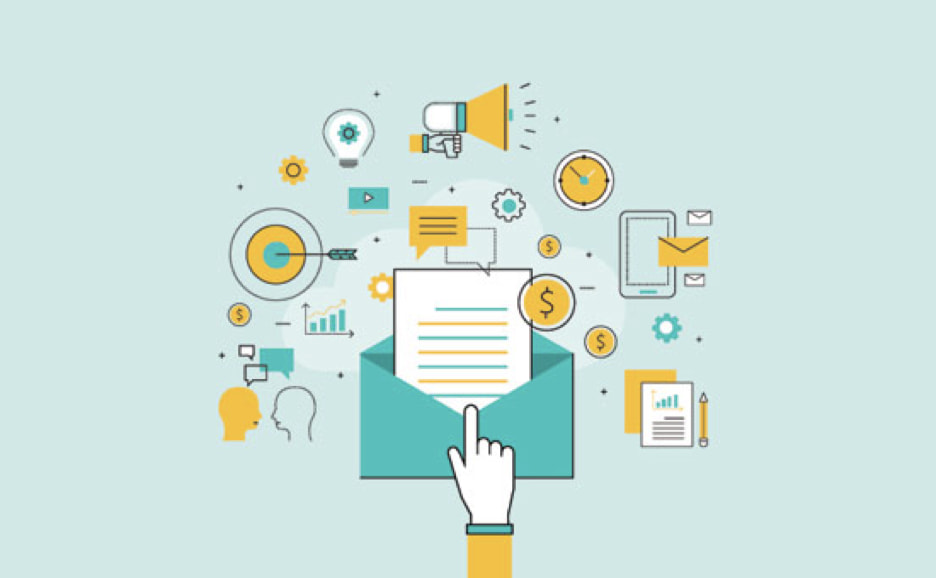
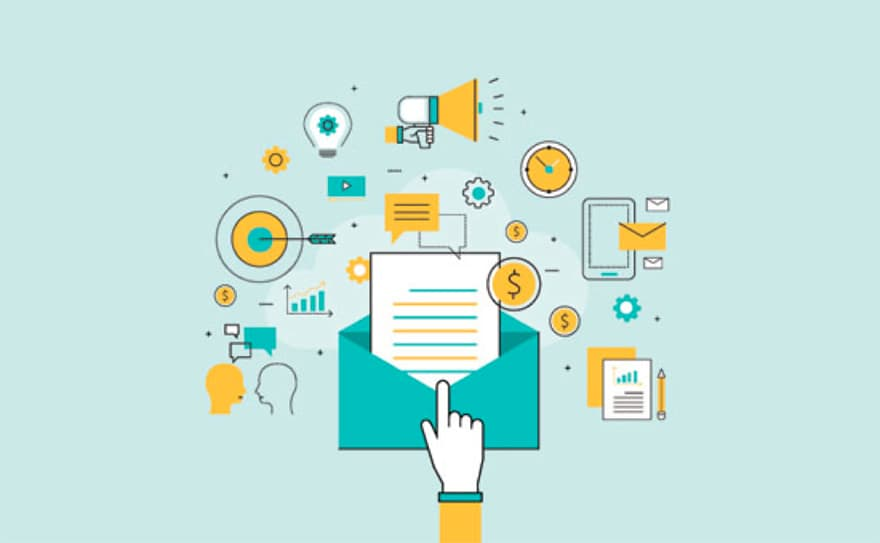
MCH-512 convert & compress images, add centering

diff --git a/src/scss/_global.scss b/src/scss/_global.scss
@@ -57,7 +57,8 @@
   text-indent: 20px;
 
   img {
-    margin-left: -20px;
+    display: block;
+    margin: 0 auto;
   }
 }
 
